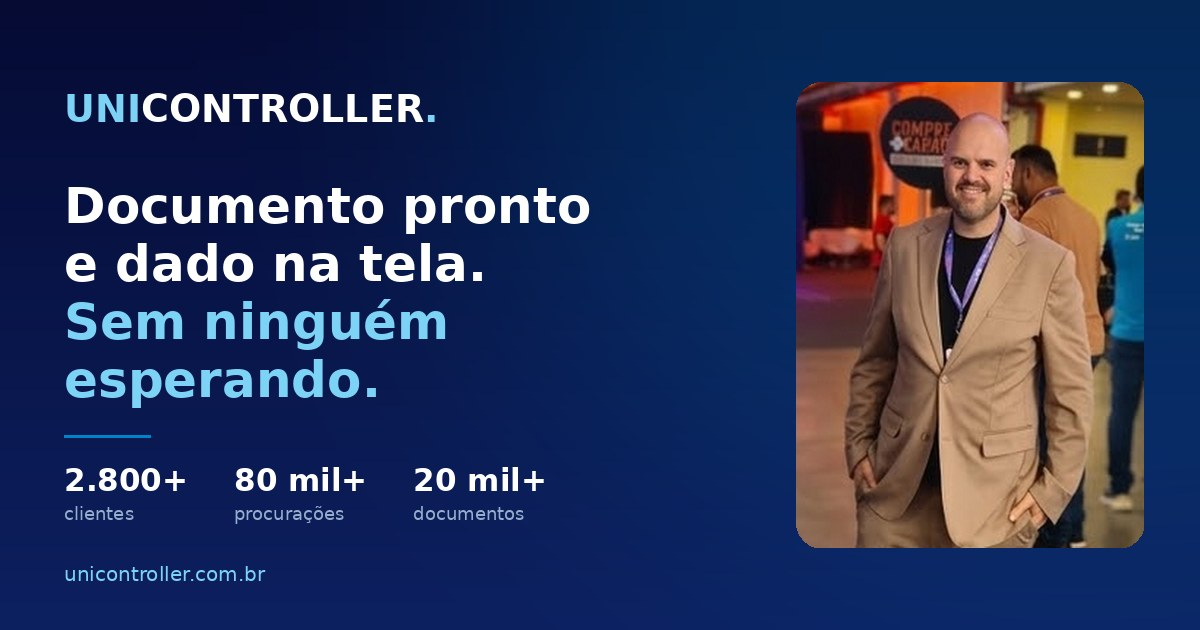
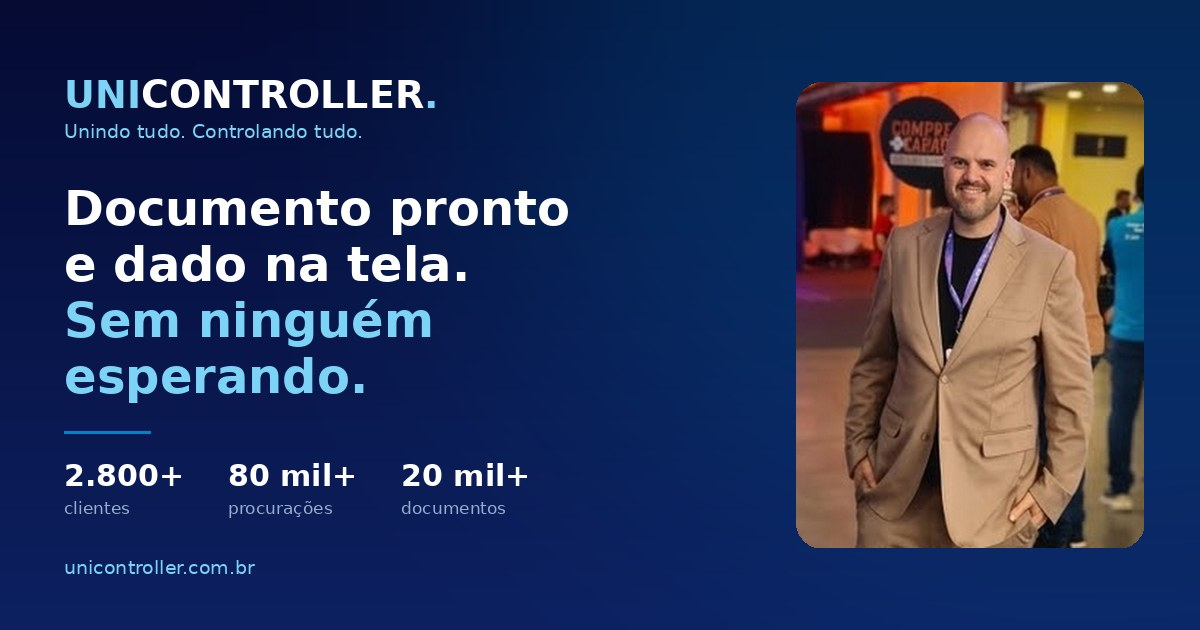
Slogan Unindo tudo. Controlando tudo. no site, paginas internas e imagem de compartilhamento

diff --git a/index.html b/index.html
@@ -14,6 +14,7 @@
 <meta property="og:image:height" content="630">
 <meta property="og:locale" content="pt_BR">
 <meta property="og:site_name" content="UniController">
+<meta name="author" content="UniController — Unindo tudo. Controlando tudo.">
 <meta name="twitter:card" content="summary_large_image">
 <meta name="twitter:title" content="UniController | Documentação veicular e consulta de dados por API">
 <meta name="twitter:description" content="2.800+ clientes, 80 mil+ procurações processadas e 20 mil+ documentos de transferência.">
@@ -32,6 +33,7 @@
   "logo":"https://unicontroller.com.br/img/icon-512.png",
   "image":"https://unicontroller.com.br/img/og-image.jpg",
   "description":"Documentação veicular e consulta de dados por API para lojas, revendas, financeiras, bancos e escritórios.",
+  "slogan":"Unindo tudo. Controlando tudo.",
   "email":"suporte@unicontroller.com.br",
   "telephone":"+55-47-99935-7131",
   "address":{"@type":"PostalAddress","addressLocality":"Blumenau","addressRegion":"SC","addressCountry":"BR"},
@@ -74,7 +76,10 @@ svg{max-width:100%;max-height:100%;flex-shrink:0}
 /* NAV */
 nav{position:fixed;top:0;left:0;right:0;z-index:100;padding:calc(15px + env(safe-area-inset-top)) 40px 15px;display:flex;align-items:center;justify-content:space-between;backdrop-filter:blur(20px);border-bottom:1px solid transparent;transition:background .4s,border-color .4s,padding .35s}
 nav.scrolled{background:rgba(255,255,255,.95);border-bottom-color:rgba(0,97,175,.1);padding-top:11px;padding-bottom:11px}
+.nav-brand{display:flex;flex-direction:column;line-height:1.15;min-width:0}
 .nav-logo{font-size:18px;color:#fff;transition:color .4s}
+.nav-slogan{font-family:'DM Sans',sans-serif;font-size:9.5px;font-weight:500;letter-spacing:.02em;color:rgba(255,255,255,.5);transition:color .4s;white-space:nowrap;margin-top:1px}
+nav.scrolled .nav-slogan{color:var(--muted)}
 nav.scrolled .nav-logo{color:var(--navy)}
 .nav-links{display:flex;align-items:center;gap:26px}
 .nav-links a{font-size:13px;font-weight:500;color:rgba(255,255,255,.62);transition:color .25s}
@@ -449,7 +454,8 @@ h2{font-family:'Syne',sans-serif;font-size:40px;font-weight:800;color:var(--navy
 footer{background:var(--navy);padding:64px 40px 32px;color:rgba(255,255,255,.5)}
 .f-in{max-width:1200px;margin:0 auto}
 .f-top{display:grid;grid-template-columns:1.5fr 1fr 1fr;gap:48px}
-.f-logo{font-size:22px;color:#fff;margin-bottom:10px}
+.f-logo{font-size:22px;color:#fff;margin-bottom:6px}
+.slogan{font-family:'Syne',sans-serif;font-size:13px;font-weight:700;color:var(--cy);letter-spacing:-.2px;margin-bottom:12px}
 .f-logo .u,.f-logo .p{color:var(--cy)}
 .f-top p{font-size:13px;line-height:1.75}
 .f-top p a{transition:color .2s}
@@ -483,6 +489,7 @@ footer{background:var(--navy);padding:64px 40px 32px;color:rgba(255,255,255,.5)}
   .nav-links a:not(.btn-nav){display:none}
   .btn-nav{padding:8px 15px;font-size:12px;flex-shrink:0;white-space:nowrap}
   .nav-logo{font-size:15px;min-width:0;overflow:hidden;text-overflow:ellipsis}
+  .nav-slogan{display:none}
   .hero{padding:calc(100px + env(safe-area-inset-top,0px)) 16px 56px}
   h1{font-size:31px;letter-spacing:-1.1px}
   .hero-sub{font-size:14.5px}
@@ -549,7 +556,7 @@ window.UC_API = window.UC_API || 'https://tickets.unicontroller.com.br';
 <div id="prog"></div>
 
 <nav id="nav">
-  <div class="logo nav-logo"><span class="u">UNI</span>CONTROLLER<span class="p">.</span></div>
+  <div class="nav-brand"><div class="logo nav-logo"><span class="u">UNI</span>CONTROLLER<span class="p">.</span></div><div class="nav-slogan">Unindo tudo. Controlando tudo.</div></div>
   <div class="nav-links">
     <a href="#problema">O que resolvemos</a>
     <a href="#solucoes">Soluções</a>
@@ -565,7 +572,7 @@ window.UC_API = window.UC_API || 'https://tickets.unicontroller.com.br';
   <div class="aur aur1"></div><div class="aur aur2"></div>
   <div class="hero-in">
     <div>
-      <div class="eyebrow hero-a d1"><span class="dot"></span><span>Desde 2018 em Santa Catarina</span></div>
+      <div class="eyebrow hero-a d1"><span class="dot"></span><span>Unindo tudo. Controlando tudo.</span></div>
       <h1 class="hero-a d1">A papelada e os dados<br>do veículo, <span class="hl">resolvidos.</span></h1>
       <p class="hero-sub hero-a d2">A UniController faz duas coisas para quem trabalha com veículo: <b>emite os documentos de compra e venda</b> e <b>entrega por API os dados que a operação precisa consultar</b>. Para lojas, revendas, financeiras, bancos e escritórios.</p>
       <div class="hero-btns hero-a d3">
@@ -1256,6 +1263,7 @@ window.UC_API = window.UC_API || 'https://tickets.unicontroller.com.br';
     <div class="f-top">
       <div>
         <div class="logo f-logo"><span class="u">UNI</span>CONTROLLER<span class="p">.</span></div>
+        <div class="slogan">Unindo tudo. Controlando tudo.</div>
         <p>Documentação veicular e consulta de dados por API para lojas, revendas, financeiras, bancos e escritórios. Sede em Blumenau/Timbó, Santa Catarina.</p>
       </div>
       <div>

diff --git a/privacidade.html b/privacidade.html
@@ -26,6 +26,8 @@ a:hover{text-decoration:underline}
 nav{background:var(--navy);padding:calc(18px + env(safe-area-inset-top)) 24px 18px}
 .nav-in{max-width:820px;margin:0 auto;display:flex;align-items:center;justify-content:space-between;gap:14px}
 nav .logo{font-size:18px;color:#fff}
+.brand-wrap{display:flex;flex-direction:column;line-height:1.15}
+.nav-slogan{font-size:9.5px;font-weight:500;color:rgba(255,255,255,.5);margin-top:1px;white-space:nowrap}
 nav a.back{font-size:13px;color:rgba(255,255,255,.65)}
 nav a.back:hover{color:#fff;text-decoration:none}
 header{background:linear-gradient(135deg,var(--navy),#0D2060);padding:52px 24px 60px;color:#fff}
@@ -60,7 +62,7 @@ footer a{color:var(--cy)}
 
 <nav>
   <div class="nav-in">
-    <a href="/" class="logo"><span class="u">UNI</span>CONTROLLER<span class="p">.</span></a>
+    <div class="brand-wrap"><a href="/" class="logo"><span class="u">UNI</span>CONTROLLER<span class="p">.</span></a><div class="nav-slogan">Unindo tudo. Controlando tudo.</div></div>
     <a href="/" class="back">Voltar ao site</a>
   </div>
 </nav>
@@ -153,6 +155,7 @@ footer a{color:var(--cy)}
 
 <footer>
   <a href="/" class="logo"><span class="u">UNI</span>CONTROLLER<span class="p">.</span></a>
+  <div style="font-size:12px;color:var(--cy);margin-bottom:8px;font-weight:600">Unindo tudo. Controlando tudo.</div>
   <a href="mailto:suporte@unicontroller.com.br">suporte@unicontroller.com.br</a><br>
   © <span id="ano">2026</span> UniController. Blumenau e Timbó, Santa Catarina, Brasil.
 </footer>

diff --git a/ticket.html b/ticket.html
@@ -23,6 +23,8 @@ a{color:var(--az2);text-decoration:none}
 nav{background:var(--navy);padding:calc(18px + env(safe-area-inset-top)) 24px 18px}
 .nav-in{max-width:720px;margin:0 auto;display:flex;align-items:center;justify-content:space-between;gap:14px}
 nav .logo{font-size:18px;color:#fff}
+.brand-wrap{display:flex;flex-direction:column;line-height:1.15}
+.nav-slogan{font-size:9.5px;font-weight:500;color:rgba(255,255,255,.5);margin-top:1px;white-space:nowrap}
 nav .logo .u,nav .logo .p{color:var(--cy)}
 nav a.back{font-size:13px;color:rgba(255,255,255,.62)}
 nav a.back:hover{color:#fff}
@@ -77,7 +79,7 @@ footer a{color:var(--cy)}
 
 <nav>
   <div class="nav-in">
-    <a href="/" class="logo"><span class="u">UNI</span>CONTROLLER<span class="p">.</span></a>
+    <div class="brand-wrap"><a href="/" class="logo"><span class="u">UNI</span>CONTROLLER<span class="p">.</span></a><div class="nav-slogan">Unindo tudo. Controlando tudo.</div></div>
     <a href="/" class="back">Voltar ao site</a>
   </div>
 </nav>
@@ -95,6 +97,7 @@ footer a{color:var(--cy)}
 </main>
 
 <footer>
+  <div style="font-family:'Syne',sans-serif;font-size:13px;color:var(--cy);font-weight:700;margin-bottom:10px">Unindo tudo. Controlando tudo.</div>
   <a href="mailto:suporte@unicontroller.com.br">suporte@unicontroller.com.br</a> &middot;
   <a href="https://wa.me/5547999357131">(47) 99935-7131</a><br>
   © <span id="ano">2026</span> UniController. Blumenau e Timbó, Santa Catarina.
